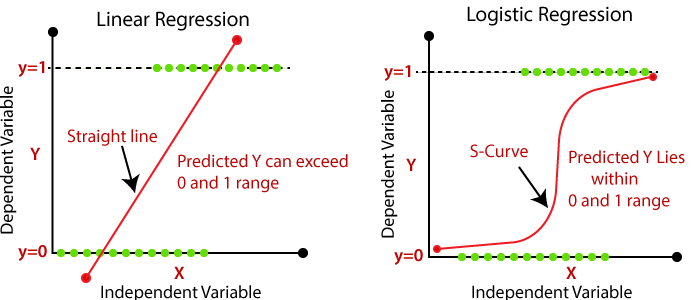
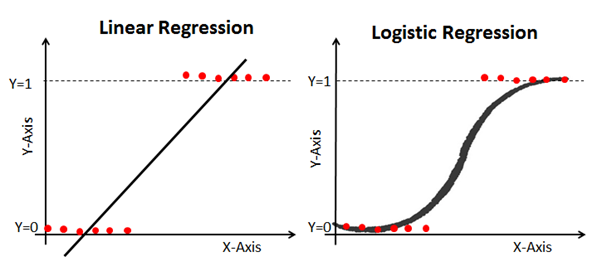
update README

Changed region(s): [[0.0, 0.0295, 0.9867, 1.0], [0.1196, 0.0295, 0.4186, 0.1771]]

diff --git a/README.md b/README.md
@@ -3,8 +3,17 @@
 # **ÍNDICE**
 
 - [Regresión](#Regresión)
+    - [Regresión lineal univariable](##Regresión-lineal-univariable)
+    - [Regresión lineal multivariable](##Regresión-lineal-multivariable)
+    - [Regresión no lineal univariable](##Regresión-no-lineal-univariable)
+    - [Regresión logística](#Regresión-logística)
 - [Clasificación](#Clasificación)
+    - [Support vector machine](##Support-vector-machine)
+    - [KNN](##KNN)
+    - [Decision Trees](##Decision-Trees)
 - [Clustering](#Clustering)
+    - [K Means](##K-Means)
+    - [Gaussian mixture model](##Gaussian-mixture-model)
 
 # **Regresión**
 
@@ -103,6 +112,7 @@ $$
 
 $$
 \frac{\partial{L}}{\partial{w_0}} = \frac{1}{m}\sum_{i=0}^m(y_i - h(x^i))(-1) \\
+
 \frac{\partial{L}}{\partial{w_{j\neq 0}}} = \frac{1}{m}\sum_{i=0}^m(y_i - h(x^i))(-x^{i}_{j})
 $$
 
@@ -126,6 +136,7 @@ $$h(x) = [x^0, x^1, x^2, ..., x^p].[w_0, w_1, w_2, ..., w_p]^t$$
 ### **Gradient descent**
 $$
 \frac{\partial{L}}{\partial{w_0}} = \frac{1}{m}\sum_{i=0}^m(y_i - h(x_i))(-1) \\
+
 \frac{\partial{L}}{\partial{w_{j\neq 0}}} = \frac{1}{m}\sum_{i=0}^m(y_i - h(x_i))(-x_j^{(i)})
 $$
 
@@ -176,7 +187,7 @@ Majority vote
 
 # **Clustering**
 
-## **K-Means**
+## **K Means**
 - Método de clustering no supervisado que busca dividir la data en K grupos donde cada observación pertenece al grupo con valor medio más cercano
 
 <div align="center">
@@ -185,7 +196,7 @@ Majority vote
 
 ## **Gaussian mixture model**
 
-# **Extra**
+# **Metricas**
 
 ## **Loss function**
 
